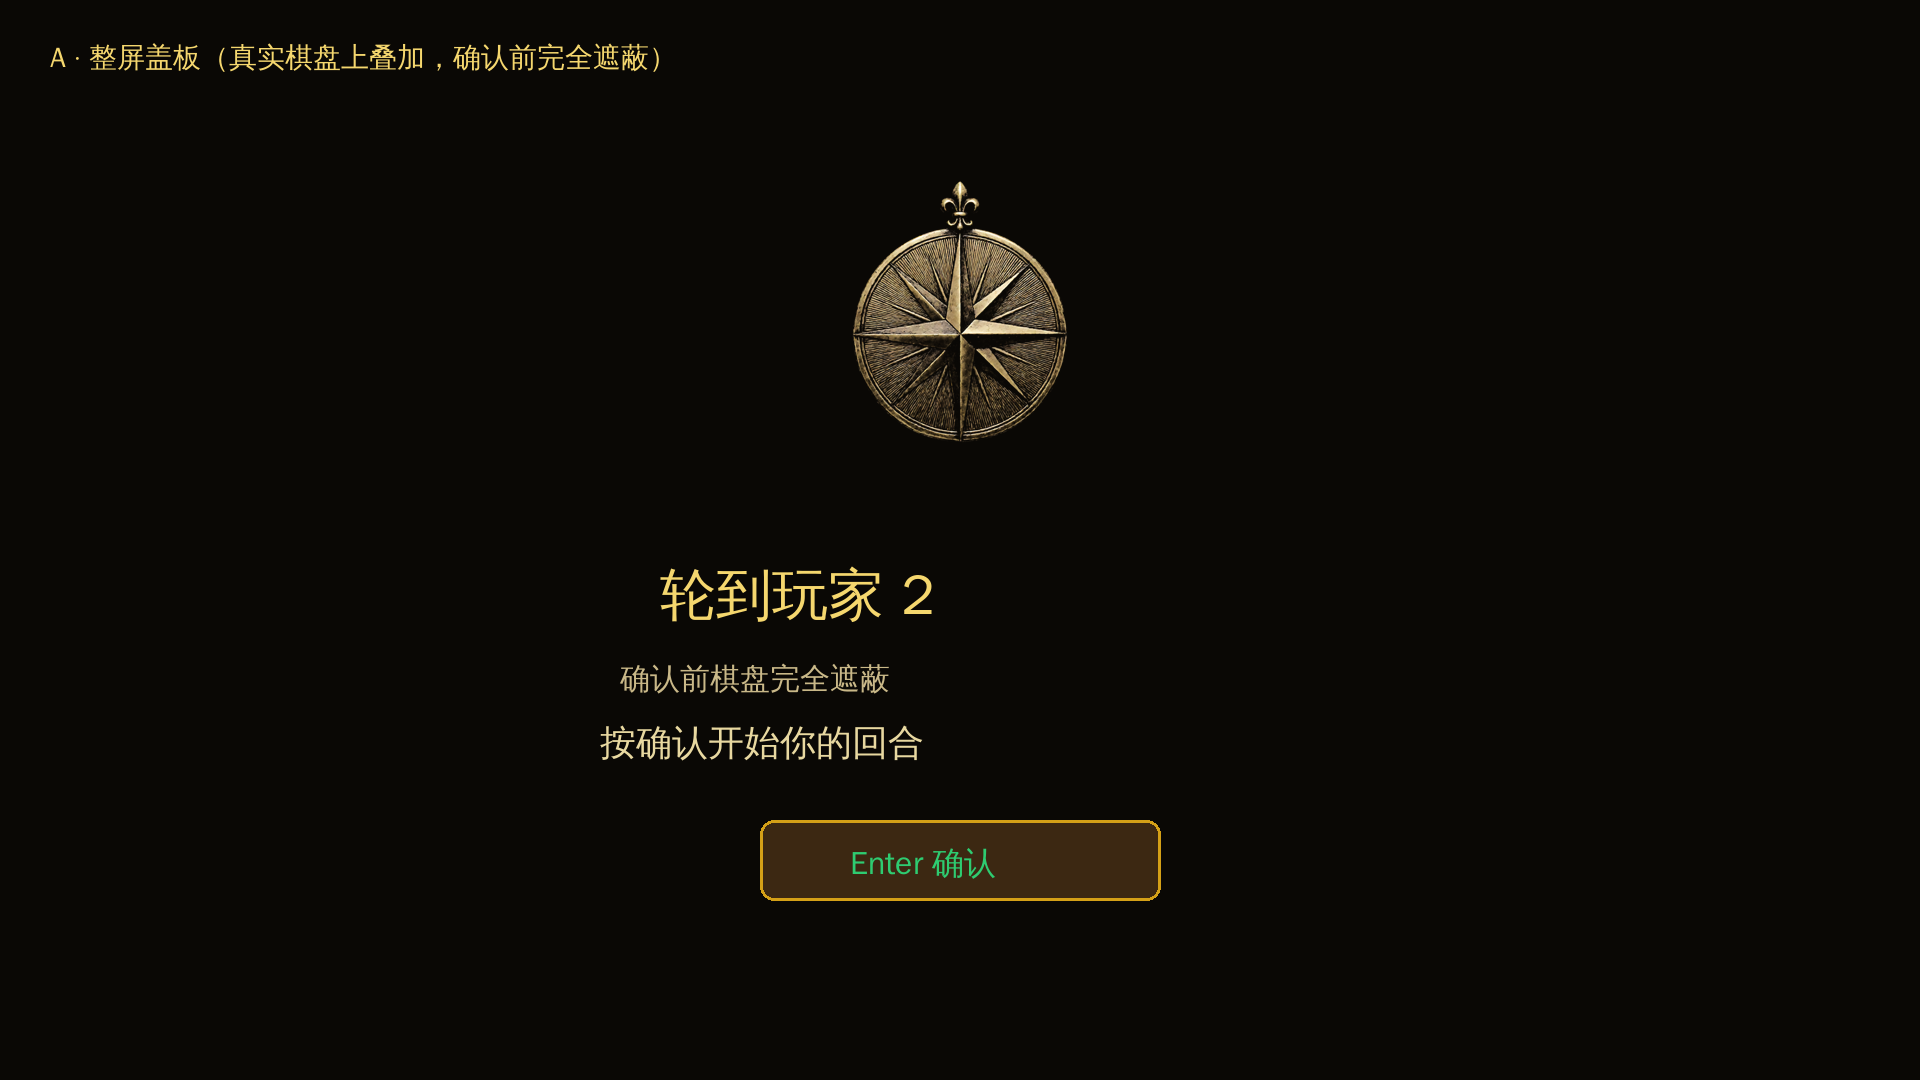
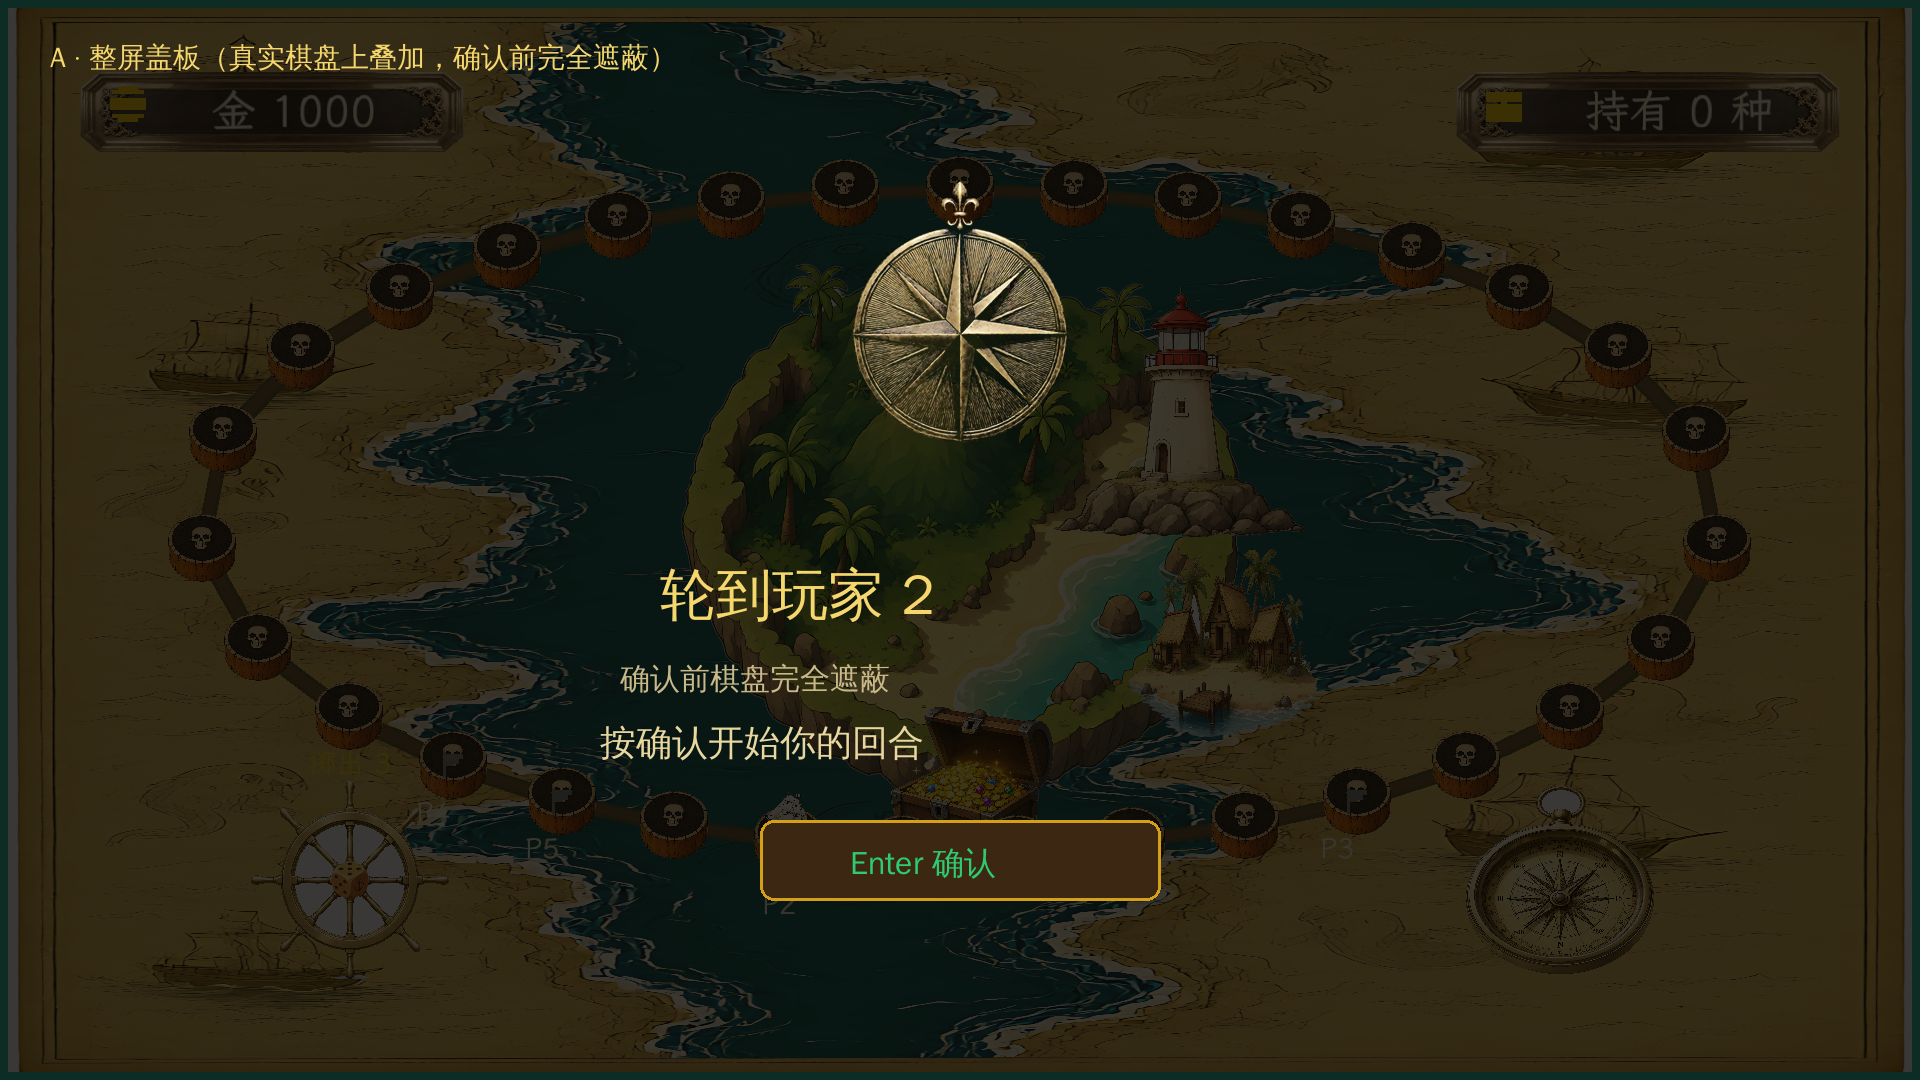
U9 A整体图修正：alpha_composite 半透明遮罩替 RGBA draw 替换（真实棋盘轮廓透出）
PIL 在 RGBA 底图上 ImageDraw rectangle 半透明填充是替换非混合 ⇒ 之前 A 全黑看不出整体。
改独立 veil layer + alpha_composite，暗化棋盘轮廓隐约可见（暗像素0.346），
既遮蔽细节又保留'盖在棋盘上'的整体感。A/B 整体图现已可直观对比。

diff --git a/scripts/ui_candidate_render.py b/scripts/ui_candidate_render.py
@@ -190,9 +190,12 @@ def render_handoff_overall(out: Path, variant: str):
     W, H = im.size
     dr = ImageDraw.Draw(im, "RGBA")
     if variant == "A":
-        # 整屏盖板：在真实棋盘上盖深色半透明层（保留一点棋盘轮廓暗示"下面是对局"），
-        # 中央罗盘 + 文案 + 按钮（与孤立候选 A 同视觉语言）。
-        dr.rectangle([0, 0, W, H], fill=(10, 8, 5, 245))
+        # 整屏盖板：在真实棋盘上盖深色半透明层（保留棋盘轮廓暗示"下面是对局"）。
+        # 关键：PIL 在 RGBA 底图上用 ImageDraw 画半透明矩形是「替换」不混合 ⇒ 必须
+        # 用独立 layer + alpha_composite 才能真正透出底图（之前全黑就是这个 bug）。
+        veil = Image.new("RGBA", (W, H), (10, 8, 5, 205))
+        im.alpha_composite(veil)
+        dr = ImageDraw.Draw(im, "RGBA")
         rose = _img("compass_rose").resize((300, 300))
         im.alpha_composite(rose, (W // 2 - 150, 180))
         dr.text((W // 2 - 300, 560), "轮到玩家 2", fill="#f5d76e", font=_font(56))
